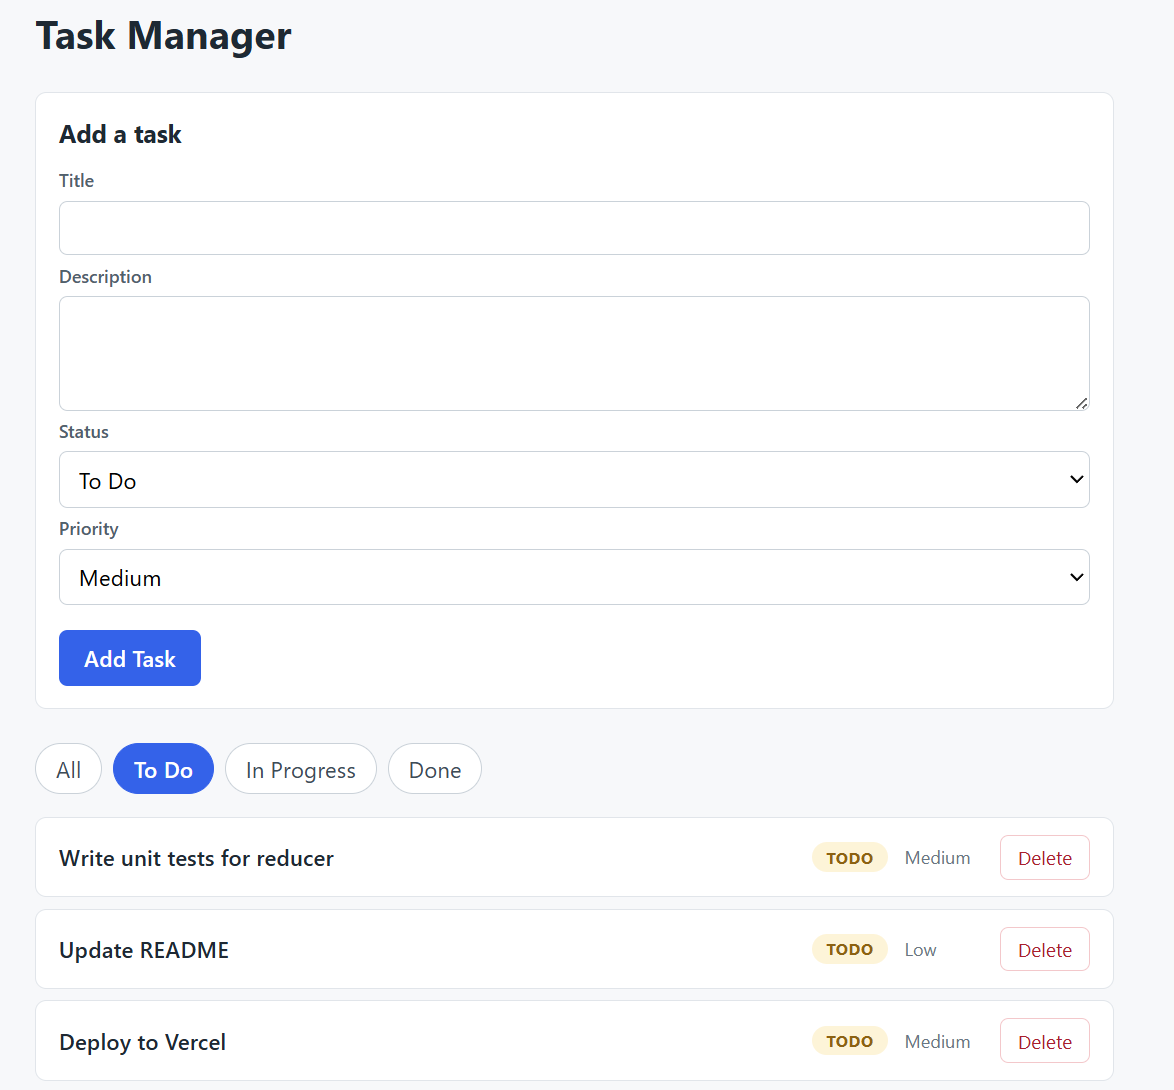
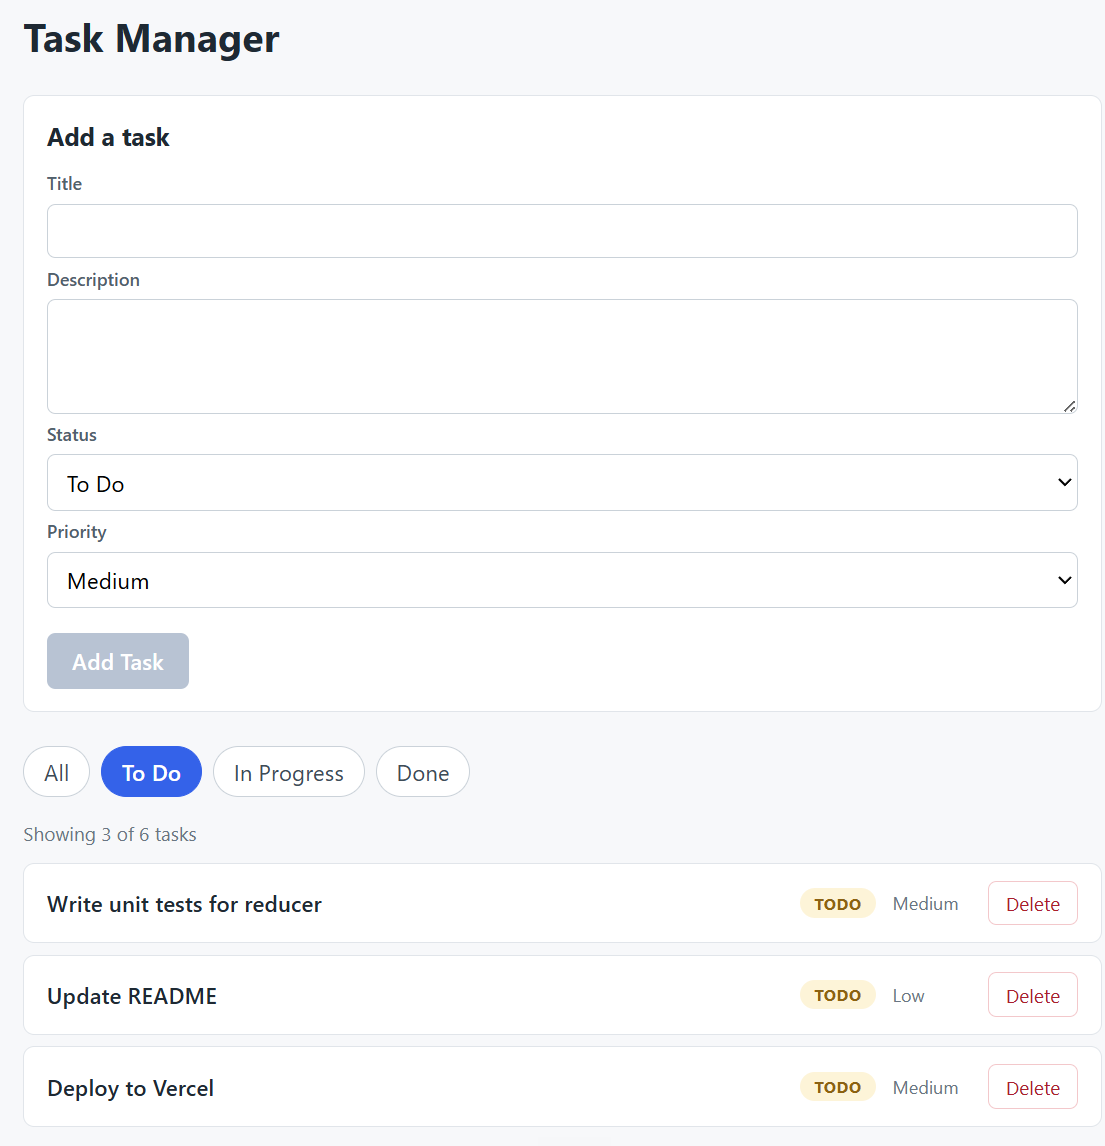
feat: add task count summary and disable submit on empty title

diff --git a/src/components/AddTaskForm.jsx b/src/components/AddTaskForm.jsx
@@ -13,6 +13,8 @@ export default function AddTaskForm() {
   const { addTask } = useTasks();
   const [form, setForm] = useState(EMPTY_FORM);
 
+  const isSubmitDisabled = form.title.trim() === '';
+
   const handleChange = (event) => {
     const { name, value } = event.target;
     setForm((previous) => ({ ...previous, [name]: value }));
@@ -21,7 +23,7 @@ export default function AddTaskForm() {
   const handleSubmit = (event) => {
     event.preventDefault();
 
-    if (form.title.trim() === '') {
+    if (isSubmitDisabled) {
       return;
     }
 
@@ -82,7 +84,9 @@ export default function AddTaskForm() {
         <option value="high">High</option>
       </select>
 
-      <button type="submit">Add Task</button>
+      <button type="submit" disabled={isSubmitDisabled}>
+        Add Task
+      </button>
     </form>
   );
 }

diff --git a/src/pages/TaskListPage.jsx b/src/pages/TaskListPage.jsx
@@ -2,12 +2,20 @@
 import AddTaskForm from '../components/AddTaskForm.jsx';
 import FilterBar from '../components/FilterBar.jsx';
 import TaskList from '../components/TaskList.jsx';
+import { useTasks } from '../context/TaskContext.jsx';
 
 export default function TaskListPage() {
+  const { tasks, filteredTasks } = useTasks();
+
   return (
     <section>
       <AddTaskForm />
       <FilterBar />
+
+      <p className="task-count">
+        Showing {filteredTasks.length} of {tasks.length} tasks
+      </p>
+
       <TaskList />
     </section>
   );

diff --git a/src/App.css b/src/App.css
@@ -219,3 +219,15 @@ header h1 {
     grid-column: 1 / -1;
   }
 }
+
+.task-count {
+  margin: 0 0 12px;
+  font-size: 0.85rem;
+  color: #6b7684;
+}
+
+.add-task-form button:disabled,
+.add-task-form button:disabled:hover {
+  background: #b9c4d4;
+  cursor: not-allowed;
+}

diff --git a/README.md b/README.md
@@ -82,7 +82,10 @@ in the brief requires persistence.
 
 ## Bonus challenges
 
-None attempted.
+Two of the 'Easy' bonuses are implemented:
+
+- A task count summary above the list, "Showing X of Y tasks"
+- The Add Task submit button is disabled while the title field is empty
 
 ## AI usage
 
